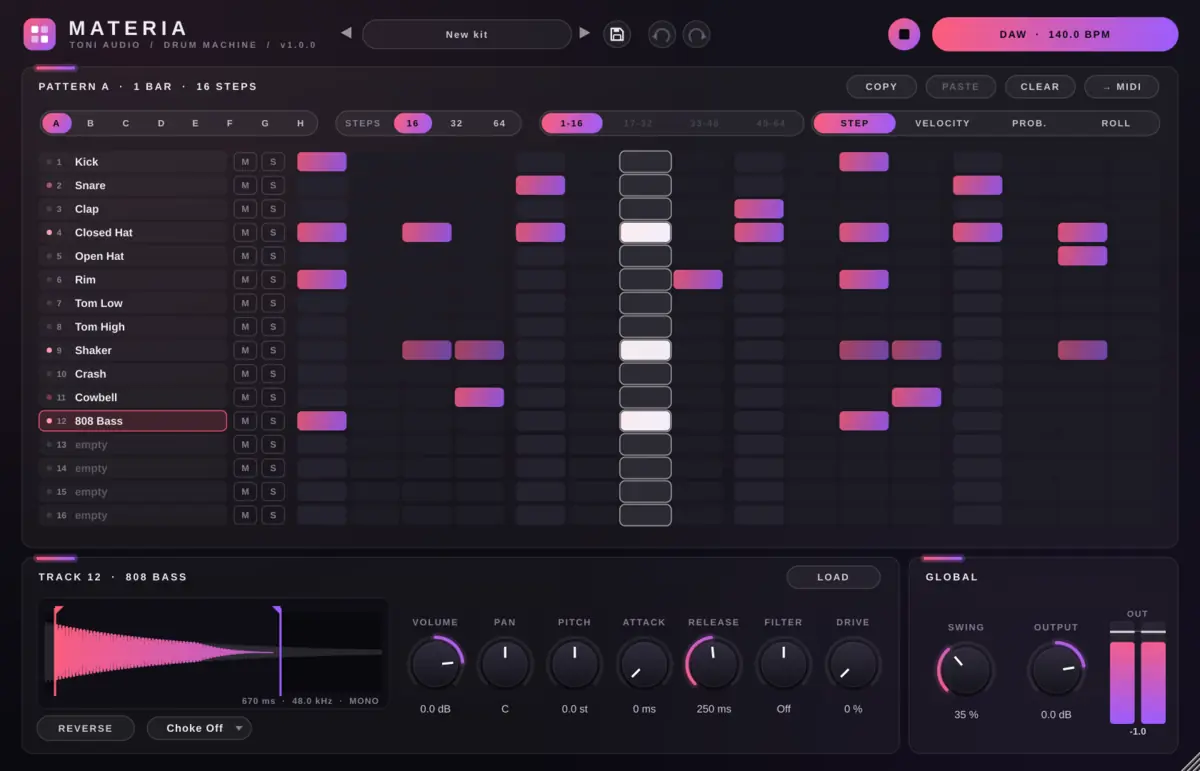
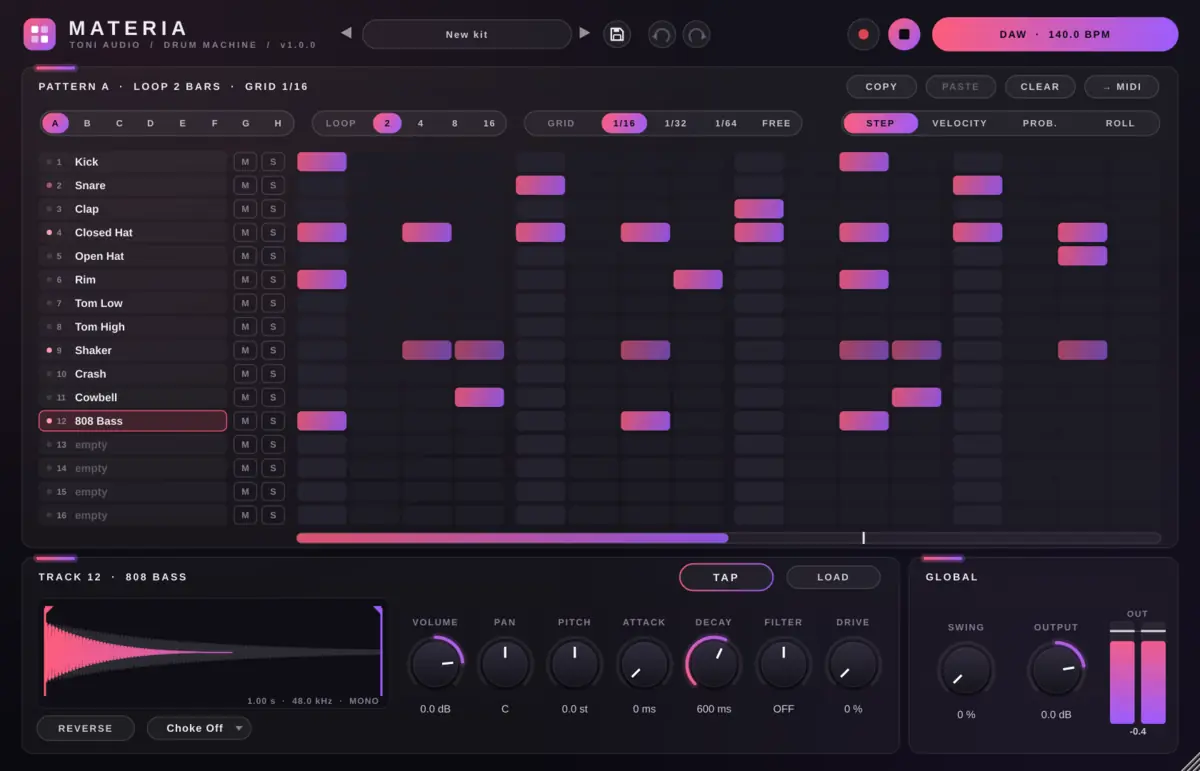
Materia: griglia fine, LOOP, registrazione dal vivo; scambio suoni con Plasma
Claude-Session: https://claude.ai/code/session_019G62skfH7sBAwHNYo81hmC

diff --git a/assets/js/details.js b/assets/js/details.js
@@ -259,63 +259,63 @@ window.TONI_DETAILS = {
     long: {
       en: [
         "Materia is a step drum machine built around your own sounds. There are no factory kits: you drag your samples, one-shots and loops onto 16 tracks and build the beat on a clear grid, just like the classic drum machines.",
-        "Every step has its own velocity, probability and roll, so patterns stay alive. On each track you pick the exact part of the sound directly on the waveform and shape it with attack, release, pitch, filter and drive. Patterns lock to the tempo of your DAW and can be dragged into the arrangement as MIDI clips. Loaded sounds are saved inside the project, so it stays complete even if you move the files."
+        "Patterns loop over 2 to 16 bars on a 1/16, 1/32 or 1/64 grid, or with hits placed freely, and every hit has its own velocity, probability and roll, so patterns stay alive. On each track you pick the exact part of the sound directly on the waveform and shape it with attack, decay, pitch, filter and drive; sounds move between Materia and Plasma just by dragging. Patterns lock to the tempo of your DAW and can be dragged into the arrangement as MIDI clips. Loaded sounds are saved inside the project, so it stays complete even if you move the files."
       ],
       it: [
         "Materia è una drum machine a passi costruita attorno ai tuoi suoni. Non ci sono kit di fabbrica: trascini i tuoi sample, colpi singoli e loop su 16 tracce e costruisci il beat su una griglia chiara, proprio come nelle drum machine classiche.",
-        "Ogni passo ha la sua velocity, probabilità e roll, così i pattern restano vivi. Su ogni traccia scegli la parte esatta del suono direttamente sulla forma d'onda e la modelli con attack, release, pitch, filtro e drive. I pattern seguono il tempo della DAW e si trascinano nell'arrangiamento come clip MIDI. I suoni caricati vengono salvati nel progetto, che resta completo anche se sposti i file."
+        "I pattern girano su loop da 2 a 16 battute con griglia 1/16, 1/32 o 1/64, oppure con colpi messi liberamente, e ogni colpo ha la sua velocity, probabilità e roll, così i pattern restano vivi. Su ogni traccia scegli la parte esatta del suono direttamente sulla forma d'onda e la modelli con attack, decay, pitch, filtro e drive; i suoni passano tra Materia e Plasma semplicemente trascinandoli. I pattern seguono il tempo della DAW e si trascinano nell'arrangiamento come clip MIDI. I suoni caricati vengono salvati nel progetto, che resta completo anche se sposti i file."
       ],
       es: [
         "Materia es una caja de ritmos por pasos construida alrededor de tus propios sonidos. No hay kits de fábrica: arrastras tus samples, golpes sueltos y loops a 16 pistas y construyes el beat en una cuadrícula clara, como en las cajas de ritmos clásicas.",
-        "Cada paso tiene su velocity, probabilidad y roll, así los patrones siguen vivos. En cada pista eliges la parte exacta del sonido directamente sobre la forma de onda y la moldeas con attack, release, pitch, filtro y drive. Los patrones siguen el tempo de tu DAW y se arrastran al arreglo como clips MIDI. Los sonidos cargados se guardan en el proyecto, que sigue completo aunque muevas los archivos."
+        "Los patrones giran en loops de 2 a 16 compases con rejilla de 1/16, 1/32 o 1/64, o con golpes colocados libremente, y cada golpe tiene su velocity, probabilidad y roll, así los patrones siguen vivos. En cada pista eliges la parte exacta del sonido directamente sobre la forma de onda y la moldeas con attack, decay, pitch, filtro y drive; los sonidos pasan entre Materia y Plasma con solo arrastrarlos. Los patrones siguen el tempo de tu DAW y se arrastran al arreglo como clips MIDI. Los sonidos cargados se guardan en el proyecto, que sigue completo aunque muevas los archivos."
       ],
       de: [
         "Materia ist ein Step-Drumcomputer, der auf deinen eigenen Sounds aufbaut. Es gibt keine Werkskits: Du ziehst deine Samples, One-Shots und Loops auf 16 Spuren und baust den Beat auf einem übersichtlichen Raster, wie bei den klassischen Drumcomputern.",
-        "Jeder Step hat eigene Velocity, Wahrscheinlichkeit und Roll, so bleiben Patterns lebendig. Auf jeder Spur wählst du den genauen Teil des Sounds direkt auf der Wellenform und formst ihn mit Attack, Release, Pitch, Filter und Drive. Patterns folgen dem Tempo deiner DAW und lassen sich als MIDI-Clips ins Arrangement ziehen. Geladene Sounds werden im Projekt gespeichert, das auch dann vollständig bleibt, wenn du die Dateien verschiebst."
+        "Patterns laufen als Loops von 2 bis 16 Takten im 1/16-, 1/32- oder 1/64-Raster oder mit frei gesetzten Schlägen, und jeder Schlag hat eigene Velocity, Wahrscheinlichkeit und Roll, so bleiben Patterns lebendig. Auf jeder Spur wählst du den genauen Teil des Sounds direkt auf der Wellenform und formst ihn mit Attack, Decay, Pitch, Filter und Drive; Sounds wandern einfach per Ziehen zwischen Materia und Plasma. Patterns folgen dem Tempo deiner DAW und lassen sich als MIDI-Clips ins Arrangement ziehen. Geladene Sounds werden im Projekt gespeichert, das auch dann vollständig bleibt, wenn du die Dateien verschiebst."
       ],
       fr: [
         "Materia est une boîte à rythmes pas à pas construite autour de vos propres sons. Pas de kits d'usine : vous glissez vos samples, one-shots et boucles sur 16 pistes et construisez le beat sur une grille claire, comme sur les boîtes à rythmes classiques.",
-        "Chaque pas a sa vélocité, sa probabilité et son roll, pour des patterns vivants. Sur chaque piste, vous choisissez la partie exacte du son directement sur la forme d'onde et la sculptez avec attack, release, pitch, filtre et drive. Les patterns suivent le tempo de votre DAW et se glissent dans l'arrangement comme clips MIDI. Les sons chargés sont enregistrés dans le projet, qui reste complet même si vous déplacez les fichiers."
+        "Les patterns tournent en boucles de 2 à 16 mesures sur une grille 1/16, 1/32 ou 1/64, ou avec des coups placés librement, et chaque coup a sa vélocité, sa probabilité et son roll, pour des patterns vivants. Sur chaque piste, vous choisissez la partie exacte du son directement sur la forme d'onde et la sculptez avec attack, decay, pitch, filtre et drive ; les sons passent entre Materia et Plasma d'un simple glisser. Les patterns suivent le tempo de votre DAW et se glissent dans l'arrangement comme clips MIDI. Les sons chargés sont enregistrés dans le projet, qui reste complet même si vous déplacez les fichiers."
       ]
     },
     how: {
       en: [
         ["Load", "Drag audio files or whole folders from Finder or Explorer onto the tracks: WAV, AIFF, FLAC, MP3 and more."],
-        ["Program", "Click the steps on the grid to write up to 8 patterns of 16, 32 or 64 steps, with swing from straight to dotted."],
-        ["Shape", "Choose Start and End on the waveform, then set attack, release, pitch, filter, drive, reverse and choke groups."],
+        ["Program", "Click the grid, or record live from a MIDI controller or the TAP button, to write up to 8 patterns, loops of 2 to 16 bars, on a 1/16, 1/32 or 1/64 grid or freely."],
+        ["Shape", "Choose Start and End on the waveform, then set attack, decay, pitch, filter, drive, reverse and choke groups."],
         ["Play", "Patterns play in time with your DAW; drag them out as MIDI or trigger the tracks from a controller."]
       ],
       it: [
         ["Carica", "Trascina file audio o intere cartelle dal Finder o da Esplora risorse sulle tracce: WAV, AIFF, FLAC, MP3 e altri."],
-        ["Programma", "Clicca i passi sulla griglia per scrivere fino a 8 pattern da 16, 32 o 64 passi, con swing da dritto a puntato."],
-        ["Modella", "Scegli Start e End sulla forma d'onda, poi regola attack, release, pitch, filtro, drive, reverse e gruppi choke."],
+        ["Programma", "Clicca sulla griglia, o registra dal vivo da controller MIDI o col tasto TAP, per scrivere fino a 8 pattern, loop da 2 a 16 battute, con griglia 1/16, 1/32, 1/64 o liberi."],
+        ["Modella", "Scegli Start e End sulla forma d'onda, poi regola attack, decay, pitch, filtro, drive, reverse e gruppi choke."],
         ["Suona", "I pattern suonano a tempo con la DAW; trascinali fuori come MIDI o suona le tracce da un controller."]
       ],
       es: [
         ["Carga", "Arrastra archivos de audio o carpetas enteras desde Finder o el Explorador a las pistas: WAV, AIFF, FLAC, MP3 y más."],
-        ["Programa", "Haz clic en los pasos de la cuadrícula para escribir hasta 8 patrones de 16, 32 o 64 pasos, con swing de recto a puntillo."],
-        ["Moldea", "Elige Start y End sobre la forma de onda y ajusta attack, release, pitch, filtro, drive, reverse y grupos choke."],
+        ["Programa", "Haz clic en la rejilla, o graba en directo desde un controlador MIDI o con el botón TAP, para escribir hasta 8 patrones, loops de 2 a 16 compases, en rejilla de 1/16, 1/32, 1/64 o libres."],
+        ["Moldea", "Elige Start y End sobre la forma de onda y ajusta attack, decay, pitch, filtro, drive, reverse y grupos choke."],
         ["Toca", "Los patrones suenan a tempo con tu DAW; arrástralos como MIDI o dispara las pistas desde un controlador."]
       ],
       de: [
         ["Laden", "Ziehe Audiodateien oder ganze Ordner aus Finder oder Explorer auf die Spuren: WAV, AIFF, FLAC, MP3 und mehr."],
-        ["Programmieren", "Klicke die Steps im Raster, um bis zu 8 Patterns mit 16, 32 oder 64 Steps zu schreiben, mit Swing von gerade bis punktiert."],
-        ["Formen", "Wähle Start und End auf der Wellenform, dann Attack, Release, Pitch, Filter, Drive, Reverse und Choke-Gruppen."],
+        ["Programmieren", "Klicke ins Raster oder nimm live über einen MIDI-Controller oder die TAP-Taste auf, um bis zu 8 Patterns als Loops von 2 bis 16 Takten zu schreiben, im 1/16-, 1/32-, 1/64-Raster oder frei."],
+        ["Formen", "Wähle Start und End auf der Wellenform, dann Attack, Decay, Pitch, Filter, Drive, Reverse und Choke-Gruppen."],
         ["Spielen", "Patterns laufen im Tempo deiner DAW; ziehe sie als MIDI heraus oder spiele die Spuren über einen Controller."]
       ],
       fr: [
         ["Charger", "Glissez des fichiers audio ou des dossiers entiers depuis le Finder ou l'Explorateur sur les pistes : WAV, AIFF, FLAC, MP3 et plus."],
-        ["Programmer", "Cliquez sur les pas de la grille pour écrire jusqu'à 8 patterns de 16, 32 ou 64 pas, avec un swing de droit à pointé."],
-        ["Sculpter", "Choisissez Start et End sur la forme d'onde, puis réglez attack, release, pitch, filtre, drive, reverse et groupes choke."],
+        ["Programmer", "Cliquez sur la grille, ou enregistrez en direct depuis un contrôleur MIDI ou le bouton TAP, pour écrire jusqu'à 8 patterns, boucles de 2 à 16 mesures, sur une grille 1/16, 1/32, 1/64 ou en libre."],
+        ["Sculpter", "Choisissez Start et End sur la forme d'onde, puis réglez attack, decay, pitch, filtre, drive, reverse et groupes choke."],
         ["Jouer", "Les patterns jouent au tempo de votre DAW ; exportez-les en MIDI par glisser-déposer ou jouez les pistes depuis un contrôleur."]
       ]
     },
     specs: {
-      en: [["Type", "16-track step drum machine (instrument)"], ["Patterns", "8, of 16, 32 or 64 steps"], ["Per step", "Velocity, probability, roll"], ["Output", "One stereo output"], ["MIDI", "Notes C1–D#2 play tracks 1–16; pattern → MIDI clip"], ["Samples", "Up to 30 s per track, saved in the project"], ["CPU", "About 0.5 % of one core (full pattern, 48 kHz)"]],
-      it: [["Tipo", "Drum machine a passi con 16 tracce (strumento)"], ["Pattern", "8, da 16, 32 o 64 passi"], ["Per passo", "Velocity, probabilità, roll"], ["Uscita", "Una uscita stereo"], ["MIDI", "Note C1–D#2 suonano le tracce 1–16; pattern → clip MIDI"], ["Sample", "Fino a 30 s per traccia, salvati nel progetto"], ["CPU", "Circa 0,5 % di un core (pattern pieno, 48 kHz)"]],
-      es: [["Tipo", "Caja de ritmos por pasos de 16 pistas (instrumento)"], ["Patrones", "8, de 16, 32 o 64 pasos"], ["Por paso", "Velocity, probabilidad, roll"], ["Salida", "Una salida estéreo"], ["MIDI", "Notas C1–D#2 tocan las pistas 1–16; patrón → clip MIDI"], ["Samples", "Hasta 30 s por pista, guardados en el proyecto"], ["CPU", "Alrededor del 0,5 % de un núcleo (patrón completo, 48 kHz)"]],
-      de: [["Typ", "Step-Drumcomputer mit 16 Spuren (Instrument)"], ["Patterns", "8, mit 16, 32 oder 64 Steps"], ["Pro Step", "Velocity, Wahrscheinlichkeit, Roll"], ["Ausgang", "Ein Stereo-Ausgang"], ["MIDI", "Noten C1–D#2 spielen Spuren 1–16; Pattern → MIDI-Clip"], ["Samples", "Bis zu 30 s pro Spur, im Projekt gespeichert"], ["CPU", "Etwa 0,5 % eines Kerns (volles Pattern, 48 kHz)"]],
-      fr: [["Type", "Boîte à rythmes pas à pas 16 pistes (instrument)"], ["Patterns", "8, de 16, 32 ou 64 pas"], ["Par pas", "Vélocité, probabilité, roll"], ["Sortie", "Une sortie stéréo"], ["MIDI", "Notes C1–D#2 jouent les pistes 1–16 ; pattern → clip MIDI"], ["Samples", "Jusqu'à 30 s par piste, enregistrés dans le projet"], ["CPU", "Environ 0,5 % d'un cœur (pattern complet, 48 kHz)"]]
+      en: [["Type", "16-track drum machine (instrument)"], ["Patterns", "8, loops of 2, 4, 8 or 16 bars"], ["Grid", "1/16, 1/32, 1/64 or free (no quantize)"], ["Per hit", "Velocity, probability, roll"], ["Output", "One stereo output"], ["MIDI", "Notes C1–D#2 play tracks 1–16; pattern → MIDI clip"], ["Samples", "Up to 30 s per track, saved in the project"], ["CPU", "About 0.5 % of one core (full pattern, 48 kHz)"]],
+      it: [["Tipo", "Drum machine a 16 tracce (strumento)"], ["Pattern", "8, loop da 2, 4, 8 o 16 battute"], ["Griglia", "1/16, 1/32, 1/64 o libera (senza quantizzazione)"], ["Per colpo", "Velocity, probabilità, roll"], ["Uscita", "Una uscita stereo"], ["MIDI", "Note C1–D#2 suonano le tracce 1–16; pattern → clip MIDI"], ["Sample", "Fino a 30 s per traccia, salvati nel progetto"], ["CPU", "Circa 0,5 % di un core (pattern pieno, 48 kHz)"]],
+      es: [["Tipo", "Caja de ritmos de 16 pistas (instrumento)"], ["Patrones", "8, loops de 2, 4, 8 o 16 compases"], ["Rejilla", "1/16, 1/32, 1/64 o libre (sin cuantización)"], ["Por golpe", "Velocity, probabilidad, roll"], ["Salida", "Una salida estéreo"], ["MIDI", "Notas C1–D#2 tocan las pistas 1–16; patrón → clip MIDI"], ["Samples", "Hasta 30 s por pista, guardados en el proyecto"], ["CPU", "Alrededor del 0,5 % de un núcleo (patrón completo, 48 kHz)"]],
+      de: [["Typ", "Drumcomputer mit 16 Spuren (Instrument)"], ["Patterns", "8, Loops mit 2, 4, 8 oder 16 Takten"], ["Raster", "1/16, 1/32, 1/64 oder frei (ohne Quantisierung)"], ["Pro Schlag", "Velocity, Wahrscheinlichkeit, Roll"], ["Ausgang", "Ein Stereo-Ausgang"], ["MIDI", "Noten C1–D#2 spielen Spuren 1–16; Pattern → MIDI-Clip"], ["Samples", "Bis zu 30 s pro Spur, im Projekt gespeichert"], ["CPU", "Etwa 0,5 % eines Kerns (volles Pattern, 48 kHz)"]],
+      fr: [["Type", "Boîte à rythmes 16 pistes (instrument)"], ["Patterns", "8, boucles de 2, 4, 8 ou 16 mesures"], ["Grille", "1/16, 1/32, 1/64 ou libre (sans quantification)"], ["Par coup", "Vélocité, probabilité, roll"], ["Sortie", "Une sortie stéréo"], ["MIDI", "Notes C1–D#2 jouent les pistes 1–16 ; pattern → clip MIDI"], ["Samples", "Jusqu'à 30 s par piste, enregistrés dans le projet"], ["CPU", "Environ 0,5 % d'un cœur (pattern complet, 48 kHz)"]]
     },
     hw: {
       en: ["64-bit dual-core processor or better", "4 GB RAM (8 GB recommended; memory grows with the loaded samples)", "About 150 MB of free disk space, plus your samples", "Screen 1280 × 800 or larger", "MIDI keyboard or pad controller (optional)"],
@@ -338,23 +338,23 @@ window.TONI_DETAILS = {
     long: {
       en: [
         "Plasma is a 16-pad sampler that fits on a single page. Drop in a loop, or record one straight into the plugin from your audio input or by resampling its own output, and start playing it right away.",
-        "Granular time stretch matches any loop to the song tempo without changing its pitch, and Auto-Chop slices it across the pads on the hits, in equal parts or by hand. Each pad has its own envelope, filter and play mode, and two LFOs can move pitch, time or filter for sounds that evolve. Everything you load or record is saved inside the project."
+        "Granular time stretch matches any loop to the song tempo without changing its pitch, and Auto-Chop slices it across the pads on the hits, in equal parts or by hand. Each pad has its own envelope, filter and play mode, and two LFOs can move pitch, time or filter for sounds that evolve. Everything you load or record is saved inside the project, and sounds move to and from Materia just by dragging: a source as the whole file, a pad as its edited sound."
       ],
       it: [
         "Plasma è un campionatore a 16 pad che sta tutto in una pagina. Trascina un loop, oppure registralo direttamente nel plugin dall'ingresso audio o ricampionando la sua stessa uscita, e inizia subito a suonarlo.",
-        "Il time stretch granulare adatta qualsiasi loop al tempo del brano senza cambiarne l'intonazione, e l'Auto-Chop lo taglia sui pad: sui colpi, in parti uguali o a mano. Ogni pad ha il suo inviluppo, filtro e modo di riproduzione, e due LFO possono muovere pitch, tempo o filtro per suoni che si evolvono. Tutto ciò che carichi o registri viene salvato nel progetto."
+        "Il time stretch granulare adatta qualsiasi loop al tempo del brano senza cambiarne l'intonazione, e l'Auto-Chop lo taglia sui pad: sui colpi, in parti uguali o a mano. Ogni pad ha il suo inviluppo, filtro e modo di riproduzione, e due LFO possono muovere pitch, tempo o filtro per suoni che si evolvono. Tutto ciò che carichi o registri viene salvato nel progetto, e i suoni passano da e verso Materia semplicemente trascinandoli: una sorgente come file intero, un pad con il suo suono editato."
       ],
       es: [
         "Plasma es un sampler de 16 pads que cabe en una sola página. Arrastra un loop, o grábalo directamente en el plugin desde tu entrada de audio o remuestreando su propia salida, y empieza a tocarlo enseguida.",
-        "El time stretch granular ajusta cualquier loop al tempo de la canción sin cambiar su tono, y el Auto-Chop lo corta en los pads: en los golpes, en partes iguales o a mano. Cada pad tiene su envolvente, filtro y modo de reproducción, y dos LFO pueden mover pitch, tiempo o filtro para sonidos que evolucionan. Todo lo que cargas o grabas se guarda en el proyecto."
+        "El time stretch granular ajusta cualquier loop al tempo de la canción sin cambiar su tono, y el Auto-Chop lo corta en los pads: en los golpes, en partes iguales o a mano. Cada pad tiene su envolvente, filtro y modo de reproducción, y dos LFO pueden mover pitch, tiempo o filtro para sonidos que evolucionan. Todo lo que cargas o grabas se guarda en el proyecto, y los sonidos pasan a y desde Materia con solo arrastrarlos: una fuente como archivo entero, un pad con su sonido editado."
       ],
       de: [
         "Plasma ist ein Sampler mit 16 Pads, der auf eine einzige Seite passt. Zieh einen Loop hinein oder nimm ihn direkt im Plugin auf, vom Audioeingang oder per Resampling des eigenen Ausgangs, und spiel ihn sofort.",
-        "Granulares Time-Stretching passt jeden Loop ohne Tonhöhenänderung an das Songtempo an, und Auto-Chop verteilt ihn auf die Pads: auf den Schlägen, in gleiche Teile oder von Hand. Jedes Pad hat eigene Hüllkurve, Filter und Wiedergabemodus, und zwei LFOs bewegen Pitch, Time oder Filter für Sounds, die sich entwickeln. Alles, was du lädst oder aufnimmst, wird im Projekt gespeichert."
+        "Granulares Time-Stretching passt jeden Loop ohne Tonhöhenänderung an das Songtempo an, und Auto-Chop verteilt ihn auf die Pads: auf den Schlägen, in gleiche Teile oder von Hand. Jedes Pad hat eigene Hüllkurve, Filter und Wiedergabemodus, und zwei LFOs bewegen Pitch, Time oder Filter für Sounds, die sich entwickeln. Alles, was du lädst oder aufnimmst, wird im Projekt gespeichert, und Sounds wandern per Ziehen zu und von Materia: eine Quelle als ganze Datei, ein Pad mit seinem bearbeiteten Sound."
       ],
       fr: [
         "Plasma est un échantillonneur 16 pads qui tient sur une seule page. Glissez une boucle, ou enregistrez-la directement dans le plugin depuis votre entrée audio ou en rééchantillonnant sa propre sortie, et jouez-la tout de suite.",
-        "Le time stretch granulaire cale n'importe quelle boucle sur le tempo du morceau sans changer sa hauteur, et l'Auto-Chop la découpe sur les pads : sur les attaques, en parts égales ou à la main. Chaque pad a son enveloppe, son filtre et son mode de lecture, et deux LFO peuvent animer pitch, temps ou filtre pour des sons qui évoluent. Tout ce que vous chargez ou enregistrez est sauvegardé dans le projet."
+        "Le time stretch granulaire cale n'importe quelle boucle sur le tempo du morceau sans changer sa hauteur, et l'Auto-Chop la découpe sur les pads : sur les attaques, en parts égales ou à la main. Chaque pad a son enveloppe, son filtre et son mode de lecture, et deux LFO peuvent animer pitch, temps ou filtre pour des sons qui évoluent. Tout ce que vous chargez ou enregistrez est sauvegardé dans le projet, et les sons passent vers et depuis Materia d'un simple glisser : une source comme fichier entier, un pad avec son son édité."
       ]
     },
     how: {

diff --git a/assets/js/plugins.js b/assets/js/plugins.js
@@ -104,18 +104,18 @@ window.TONI_PLUGINS = [
       de: "Drumcomputer", fr: "Boîte à rythmes"
     },
     text: {
-      en: "A 16-track drum machine for your own sounds: drag your samples and loops onto the tracks and program 8 patterns of up to 64 steps, with velocity, probability and roll on every step.",
-      it: "Una drum machine a 16 tracce per i tuoi suoni: trascina i tuoi sample e loop sulle tracce e programma 8 pattern fino a 64 passi, con velocity, probabilità e roll su ogni passo.",
-      es: "Una caja de ritmos de 16 pistas para tus propios sonidos: arrastra tus samples y loops a las pistas y programa 8 patrones de hasta 64 pasos, con velocity, probabilidad y roll en cada paso.",
-      de: "Ein Drumcomputer mit 16 Spuren für deine eigenen Sounds: eigene Samples und Loops auf die Spuren ziehen und 8 Patterns mit bis zu 64 Steps programmieren, mit Velocity, Wahrscheinlichkeit und Roll pro Step.",
-      fr: "Une boîte à rythmes 16 pistes pour vos propres sons : glissez vos samples et boucles sur les pistes et programmez 8 patterns jusqu'à 64 pas, avec vélocité, probabilité et roll sur chaque pas."
+      en: "A 16-track drum machine for your own sounds: drag your samples and loops onto the tracks and program 8 patterns of up to 16 bars on a 1/16, 1/32 or 1/64 grid or freely, with velocity, probability and roll on every hit.",
+      it: "Una drum machine a 16 tracce per i tuoi suoni: trascina i tuoi sample e loop sulle tracce e programma 8 pattern fino a 16 battute su griglia 1/16, 1/32, 1/64 o liberi, con velocity, probabilità e roll su ogni colpo.",
+      es: "Una caja de ritmos de 16 pistas para tus propios sonidos: arrastra tus samples y loops a las pistas y programa 8 patrones de hasta 16 compases en rejilla de 1/16, 1/32, 1/64 o libres, con velocity, probabilidad y roll en cada golpe.",
+      de: "Ein Drumcomputer mit 16 Spuren für deine eigenen Sounds: eigene Samples und Loops auf die Spuren ziehen und 8 Patterns mit bis zu 16 Takten im 1/16-, 1/32-, 1/64-Raster oder frei programmieren, mit Velocity, Wahrscheinlichkeit und Roll pro Schlag.",
+      fr: "Une boîte à rythmes 16 pistes pour vos propres sons : glissez vos samples et boucles sur les pistes et programmez 8 patterns jusqu'à 16 mesures sur une grille 1/16, 1/32, 1/64 ou en libre, avec vélocité, probabilité et roll sur chaque coup."
     },
     features: {
-      en: ["16 tracks, drag & drop of your samples", "8 patterns, velocity / probability / roll", "Start / End on the waveform, choke groups, → MIDI"],
-      it: ["16 tracce, drag & drop dei tuoi sample", "8 pattern, velocity / probabilità / roll", "Start / End sulla forma d'onda, gruppi choke, → MIDI"],
-      es: ["16 pistas, arrastrar y soltar tus samples", "8 patrones, velocity / probabilidad / roll", "Start / End en la forma de onda, grupos choke, → MIDI"],
-      de: ["16 Spuren, Drag & Drop eigener Samples", "8 Patterns, Velocity / Wahrscheinlichkeit / Roll", "Start / End auf der Wellenform, Choke-Gruppen, → MIDI"],
-      fr: ["16 pistes, glisser-déposer de vos samples", "8 patterns, vélocité / probabilité / roll", "Start / End sur la forme d'onde, groupes choke, → MIDI"]
+      en: ["16 tracks, drag & drop of your samples", "Loops up to 16 bars, grid 1/16–1/64 or free", "Start / End on the waveform, choke groups, → MIDI"],
+      it: ["16 tracce, drag & drop dei tuoi sample", "Loop fino a 16 battute, griglia 1/16–1/64 o libera", "Start / End sulla forma d'onda, gruppi choke, → MIDI"],
+      es: ["16 pistas, arrastrar y soltar tus samples", "Loops de hasta 16 compases, rejilla 1/16–1/64 o libre", "Start / End en la forma de onda, grupos choke, → MIDI"],
+      de: ["16 Spuren, Drag & Drop eigener Samples", "Loops bis 16 Takte, Raster 1/16–1/64 oder frei", "Start / End auf der Wellenform, Choke-Gruppen, → MIDI"],
+      fr: ["16 pistes, glisser-déposer de vos samples", "Boucles jusqu'à 16 mesures, grille 1/16–1/64 ou libre", "Start / End sur la forme d'onde, groupes choke, → MIDI"]
     }
   },
   {
